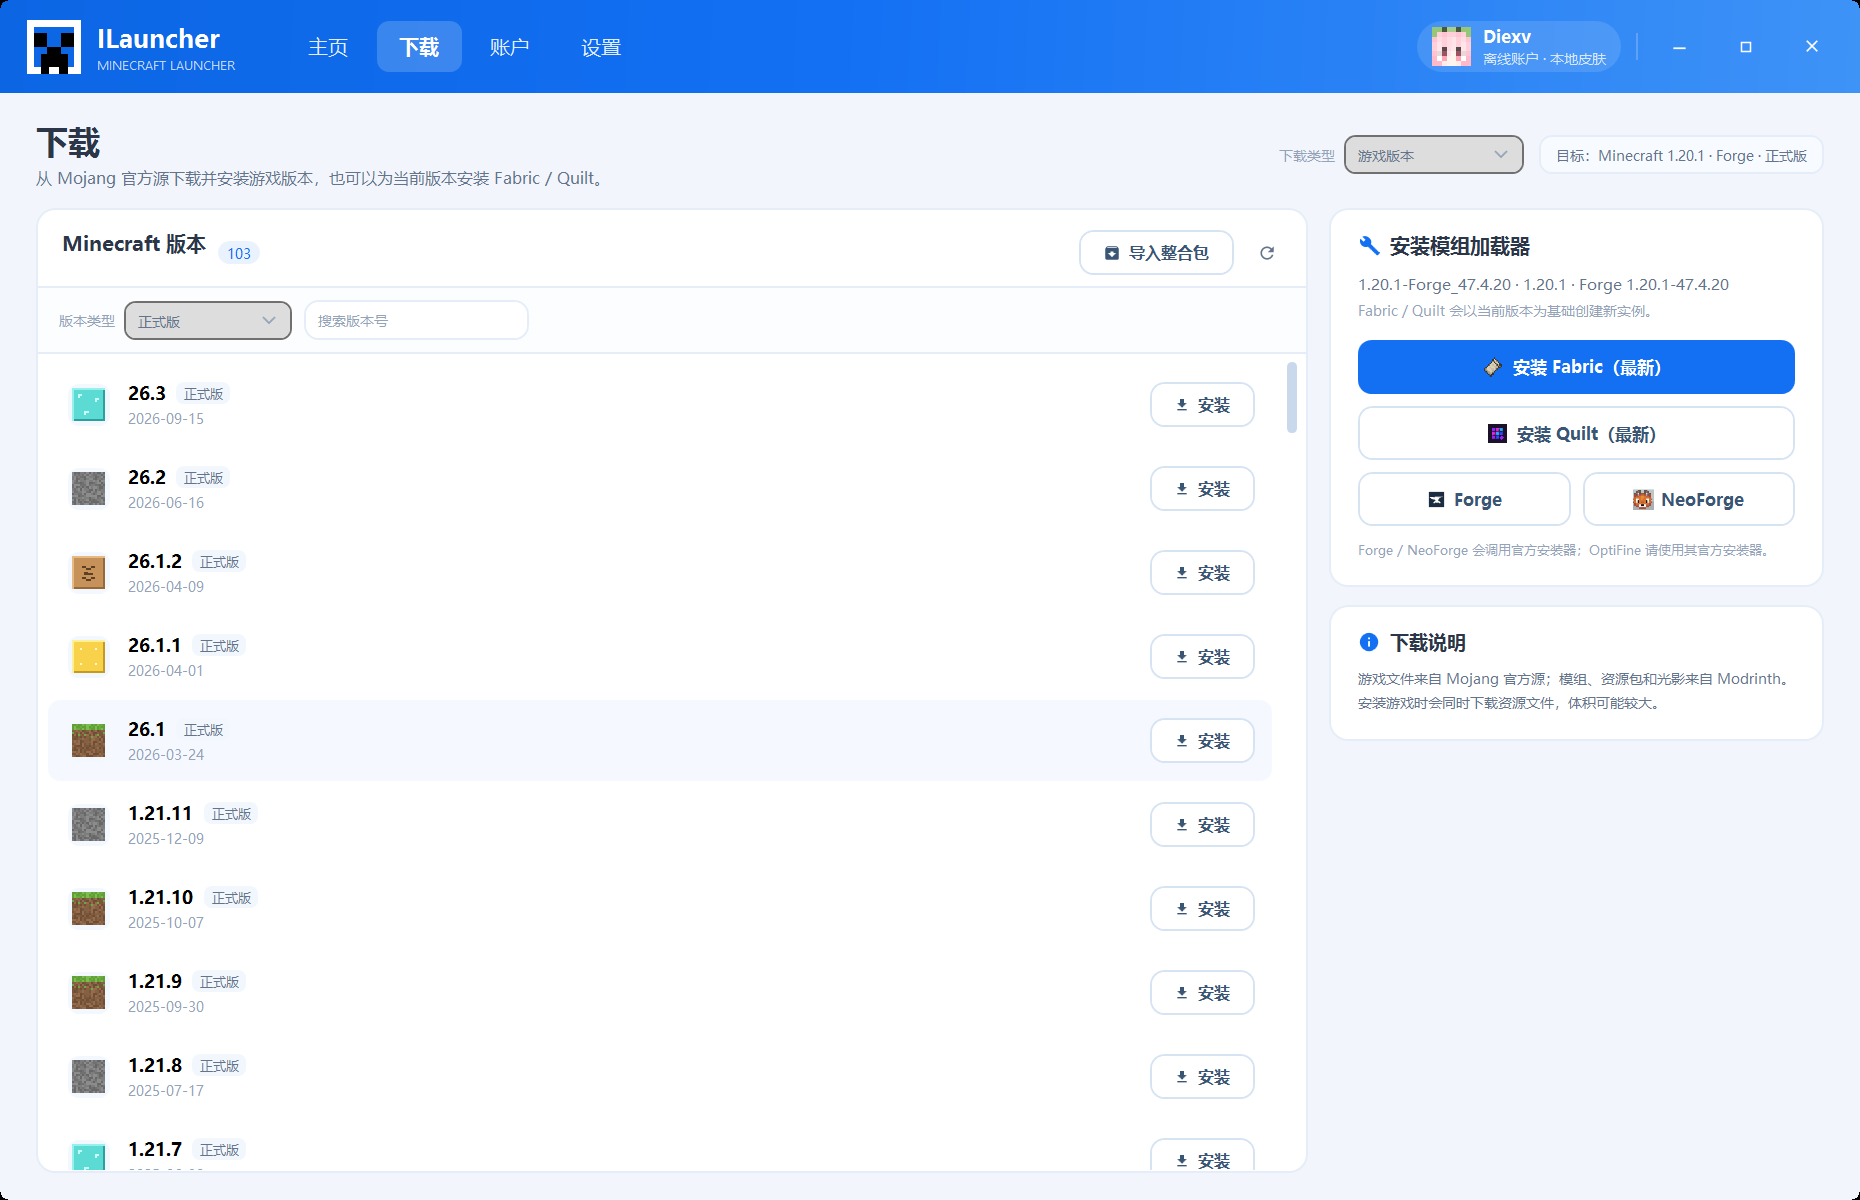
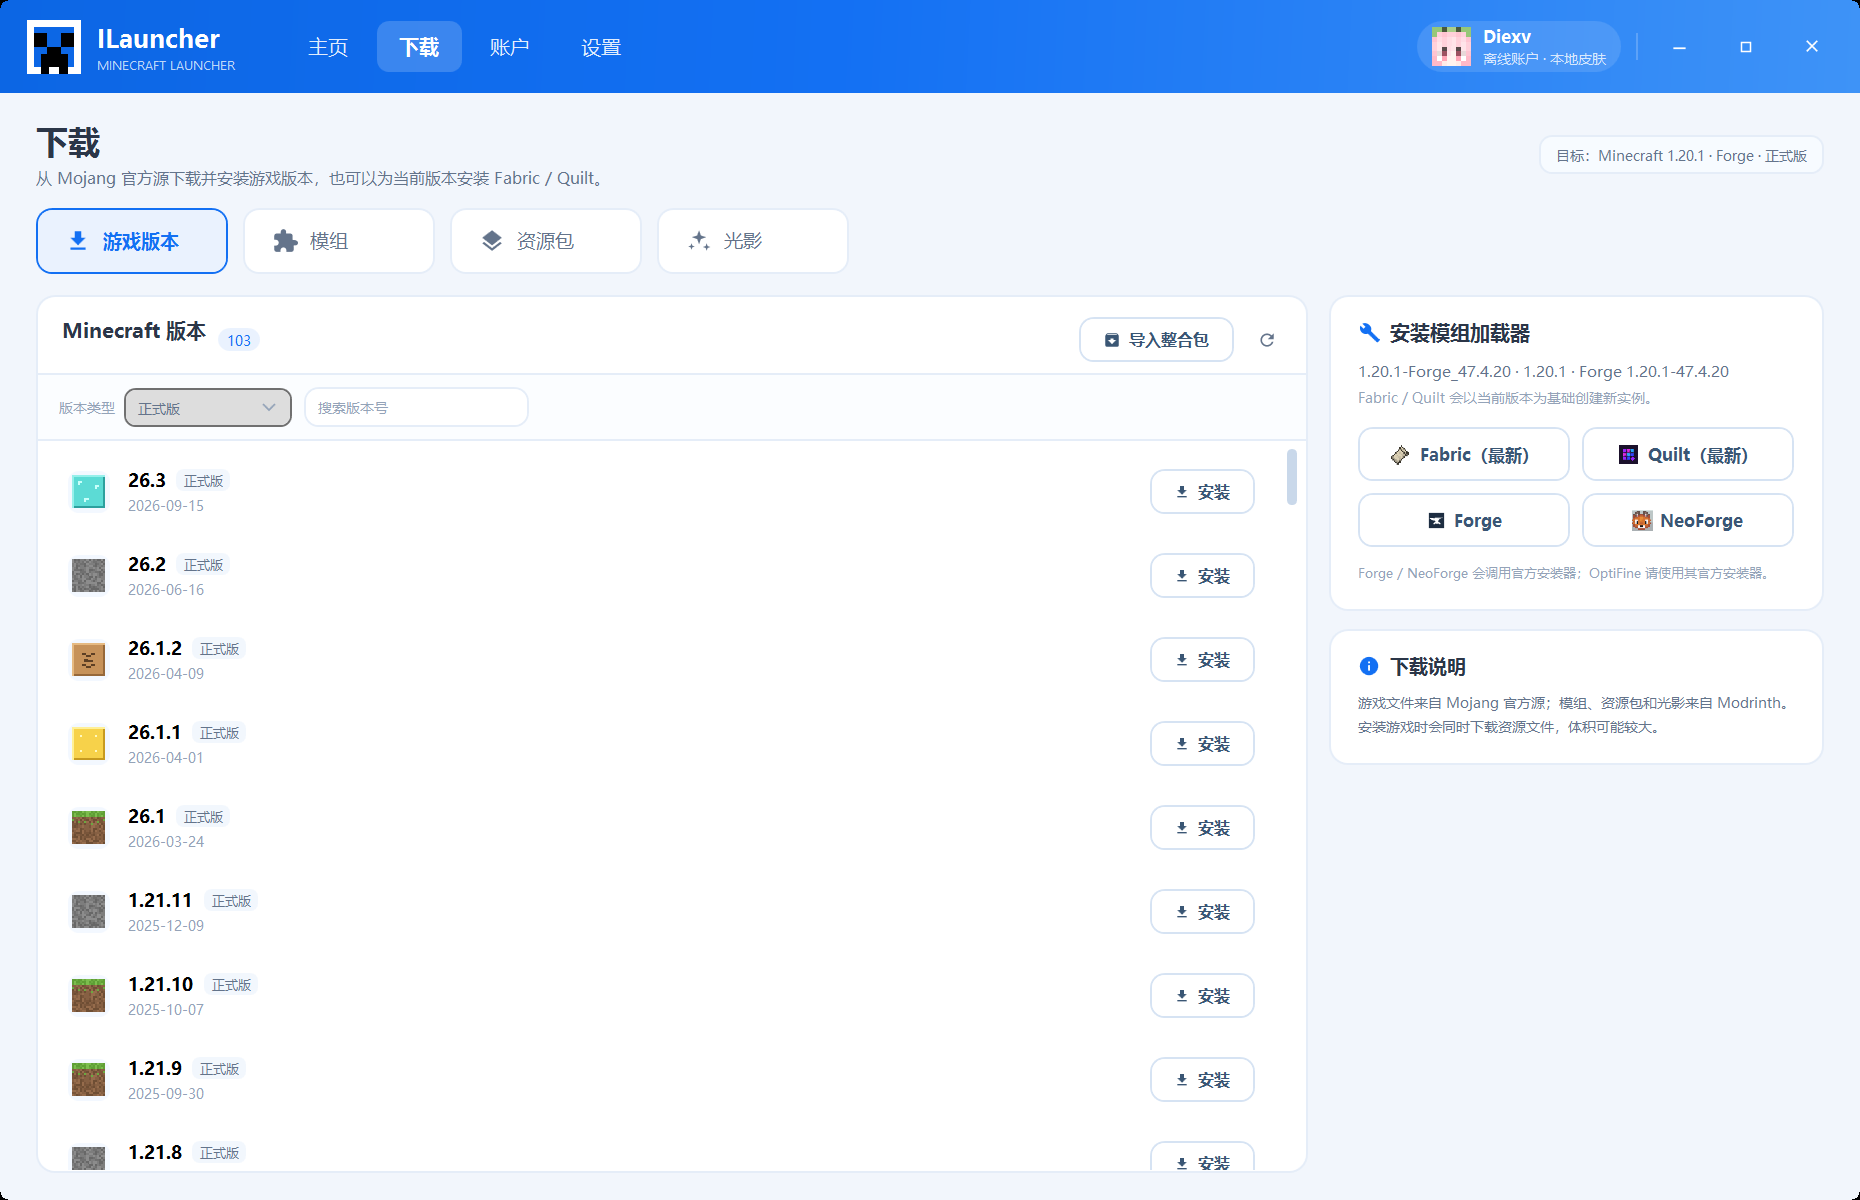
Polish download buttons and remove repeated source labels

diff --git a/src/ILauncher/Views/DownloadView.xaml b/src/ILauncher/Views/DownloadView.xaml
@@ -5,9 +5,11 @@
 
     <UserControl.Resources>
         <Style x:Key="DownloadTabButton" TargetType="Button">
-            <Setter Property="Height" Value="38" />
-            <Setter Property="Padding" Value="15,0" />
-            <Setter Property="Margin" Value="0,0,8,0" />
+            <Setter Property="Height" Value="44" />
+            <Setter Property="MinWidth" Value="128" />
+            <Setter Property="Padding" Value="18,0" />
+            <Setter Property="Margin" Value="0,0,10,0" />
+            <Setter Property="FontSize" Value="12.5" />
             <Setter Property="Background" Value="#FFFFFFFF" />
             <Setter Property="BorderBrush" Value="{StaticResource BrushBorder}" />
             <Setter Property="Foreground" Value="{StaticResource BrushTextSecondary}" />
@@ -63,6 +65,7 @@
     <Grid Margin="24,18,24,18">
         <Grid.RowDefinitions>
             <RowDefinition Height="Auto" />
+            <RowDefinition Height="Auto" />
             <RowDefinition Height="*" />
         </Grid.RowDefinitions>
 
@@ -74,12 +77,6 @@
                            Margin="0,4,0,0" />
             </StackPanel>
             <StackPanel Orientation="Horizontal" HorizontalAlignment="Right" VerticalAlignment="Center">
-                <TextBlock Text="下载类型" FontSize="9.5" Foreground="{StaticResource BrushTextMuted}"
-                           VerticalAlignment="Center" Margin="0,0,6,0" />
-                <ComboBox Style="{StaticResource FilterCombo}" Width="120" Margin="0,0,10,0"
-                          ItemsSource="{Binding DownloadTypeOptions}"
-                          SelectedItem="{Binding SelectedDownloadType, Mode=TwoWay}"
-                          AutomationProperties.Name="下载类型" />
                 <Border Background="#FFF7FBFF" BorderBrush="{StaticResource BrushBorder}" BorderThickness="1"
                         CornerRadius="8" Padding="10,5" VerticalAlignment="Center">
                     <TextBlock Text="{Binding FilterSummary}" FontSize="9.5" Foreground="{StaticResource BrushTextSecondary}" />
@@ -87,8 +84,43 @@
             </StackPanel>
         </Grid>
 
+        <StackPanel Grid.Row="1" Orientation="Horizontal" Margin="0,0,0,14">
+            <Button Style="{StaticResource DownloadTabButton}" Tag="{Binding IsGameTab}"
+                    Command="{Binding SetTabCommand}" CommandParameter="Game" AutomationProperties.Name="游戏版本">
+                <StackPanel Orientation="Horizontal">
+                    <controls:Icon Data="{StaticResource IconDownload}" Width="17" Height="17"
+                                   Fill="{Binding Foreground, RelativeSource={RelativeSource AncestorType=Button}}" />
+                    <TextBlock Text="游戏版本" Margin="8,0,0,0" FontSize="12.5" />
+                </StackPanel>
+            </Button>
+            <Button Style="{StaticResource DownloadTabButton}" Tag="{Binding IsModsTab}"
+                    Command="{Binding SetTabCommand}" CommandParameter="Mods" AutomationProperties.Name="模组">
+                <StackPanel Orientation="Horizontal">
+                    <controls:Icon Data="{StaticResource IconPuzzle}" Width="17" Height="17"
+                                   Fill="{Binding Foreground, RelativeSource={RelativeSource AncestorType=Button}}" />
+                    <TextBlock Text="模组" Margin="8,0,0,0" FontSize="12.5" />
+                </StackPanel>
+            </Button>
+            <Button Style="{StaticResource DownloadTabButton}" Tag="{Binding IsResourcePacksTab}"
+                    Command="{Binding SetTabCommand}" CommandParameter="ResourcePacks" AutomationProperties.Name="资源包">
+                <StackPanel Orientation="Horizontal">
+                    <controls:Icon Data="{StaticResource IconLayers}" Width="17" Height="17"
+                                   Fill="{Binding Foreground, RelativeSource={RelativeSource AncestorType=Button}}" />
+                    <TextBlock Text="资源包" Margin="8,0,0,0" FontSize="12.5" />
+                </StackPanel>
+            </Button>
+            <Button Style="{StaticResource DownloadTabButton}" Tag="{Binding IsShadersTab}"
+                    Command="{Binding SetTabCommand}" CommandParameter="Shaders" AutomationProperties.Name="光影">
+                <StackPanel Orientation="Horizontal">
+                    <controls:Icon Data="{StaticResource IconSparkles}" Width="17" Height="17"
+                                   Fill="{Binding Foreground, RelativeSource={RelativeSource AncestorType=Button}}" />
+                    <TextBlock Text="光影" Margin="8,0,0,0" FontSize="12.5" />
+                </StackPanel>
+            </Button>
+        </StackPanel>
+
         <!-- ═══════════ Game tab ═══════════ -->
-        <Grid Grid.Row="1" Visibility="{Binding IsGameTab, Converter={StaticResource BoolToVisibility}}">
+        <Grid Grid.Row="2" Visibility="{Binding IsGameTab, Converter={StaticResource BoolToVisibility}}">
             <Grid.ColumnDefinitions>
                 <ColumnDefinition Width="*" />
                 <ColumnDefinition Width="14" />
@@ -205,39 +237,38 @@
                         </StackPanel>
                         <TextBlock Text="{Binding CurrentInstanceText}" FontSize="10" Foreground="{StaticResource BrushTextSecondary}"
                                    TextTrimming="CharacterEllipsis" />
-                        <TextBlock Text="Fabric / Quilt 会以当前版本为基础创建新实例。" FontSize="9" Foreground="{StaticResource BrushTextMuted}"
+                        <TextBlock Text="Fabric / Quilt 会创建新实例；Forge / NeoForge 调用官方安装器。" FontSize="9" Foreground="{StaticResource BrushTextMuted}"
                                    TextWrapping="Wrap" Margin="0,4,0,12" LineHeight="15" />
-                        <Button Style="{StaticResource PrimaryButton}" Height="36" Command="{Binding InstallFabricCommand}" AutomationProperties.Name="安装 Fabric">
-                            <StackPanel Orientation="Horizontal">
-                                <Image Source="/Assets/Loaders/fabric.png" Width="15" Height="15" />
-                                <TextBlock Text="安装 Fabric（最新）" Margin="6,0,0,0" FontSize="11.5" />
-                            </StackPanel>
-                        </Button>
-                        <Button Style="{StaticResource SecondaryButton}" Height="36" Margin="0,8,0,0" Command="{Binding InstallQuiltCommand}" AutomationProperties.Name="安装 Quilt">
-                            <StackPanel Orientation="Horizontal">
-                                <Image Source="/Assets/Loaders/quilt.png" Width="14" Height="14" />
-                                <TextBlock Text="安装 Quilt（最新）" Margin="6,0,0,0" FontSize="11.5" />
-                            </StackPanel>
-                        </Button>
-                        <Grid Margin="0,8,0,0">
-                            <Grid.ColumnDefinitions>
-                                <ColumnDefinition Width="1*" />
-                                <ColumnDefinition Width="8" />
-                                <ColumnDefinition Width="1*" />
-                            </Grid.ColumnDefinitions>
-                            <Button Style="{StaticResource SecondaryButton}" Height="36" Command="{Binding InstallForgeCommand}" AutomationProperties.Name="安装 Forge">
+                        <UniformGrid Columns="2" Rows="2" Margin="0,0,0,2">
+                            <Button Style="{StaticResource SecondaryButton}" Height="36" Margin="0,0,4,4"
+                                    Command="{Binding InstallFabricCommand}" AutomationProperties.Name="安装 Fabric">
+                                <StackPanel Orientation="Horizontal">
+                                    <Image Source="/Assets/Loaders/fabric.png" Width="15" Height="15" />
+                                    <TextBlock Text="Fabric（最新）" Margin="6,0,0,0" FontSize="11.5" />
+                                </StackPanel>
+                            </Button>
+                            <Button Style="{StaticResource SecondaryButton}" Height="36" Margin="4,0,0,4"
+                                    Command="{Binding InstallQuiltCommand}" AutomationProperties.Name="安装 Quilt">
+                                <StackPanel Orientation="Horizontal">
+                                    <Image Source="/Assets/Loaders/quilt.png" Width="14" Height="14" />
+                                    <TextBlock Text="Quilt（最新）" Margin="6,0,0,0" FontSize="11.5" />
+                                </StackPanel>
+                            </Button>
+                            <Button Style="{StaticResource SecondaryButton}" Height="36" Margin="0,4,4,0"
+                                    Command="{Binding InstallForgeCommand}" AutomationProperties.Name="安装 Forge">
                                 <StackPanel Orientation="Horizontal">
                                     <Image Source="/Assets/Loaders/forge.png" Width="14" Height="14" />
                                     <TextBlock Text="Forge" Margin="5,0,0,0" FontSize="11.5" />
                                 </StackPanel>
                             </Button>
-                            <Button Grid.Column="2" Style="{StaticResource SecondaryButton}" Height="36" Command="{Binding InstallNeoForgeCommand}" AutomationProperties.Name="安装 NeoForge">
+                            <Button Style="{StaticResource SecondaryButton}" Height="36" Margin="4,4,0,0"
+                                    Command="{Binding InstallNeoForgeCommand}" AutomationProperties.Name="安装 NeoForge">
                                 <StackPanel Orientation="Horizontal">
                                     <Image Source="/Assets/Loaders/neoforge.png" Width="14" Height="14" />
                                     <TextBlock Text="NeoForge" Margin="5,0,0,0" FontSize="11.5" />
                                 </StackPanel>
                             </Button>
-                        </Grid>
+                        </UniformGrid>
                         <TextBlock Text="Forge / NeoForge 会调用官方安装器；OptiFine 请使用其官方安装器。"
                                    FontSize="8.8" Foreground="{StaticResource BrushTextMuted}" TextWrapping="Wrap" Margin="0,9,0,0" LineHeight="15" />
                     </StackPanel>
@@ -257,7 +288,7 @@
         </Grid>
 
         <!-- ═══════════ Content search tab ═══════════ -->
-        <Grid Grid.Row="1" Visibility="{Binding IsContentTab, Converter={StaticResource BoolToVisibility}}">
+        <Grid Grid.Row="2" Visibility="{Binding IsContentTab, Converter={StaticResource BoolToVisibility}}">
             <Grid.RowDefinitions>
                 <RowDefinition Height="Auto" />
                 <RowDefinition Height="Auto" />
@@ -396,15 +427,15 @@
 
                         <StackPanel HorizontalAlignment="Center" VerticalAlignment="Center"
                                     Visibility="{Binding IsSearching, Converter={StaticResource BoolToVisibility}}">
-                            <TextBlock Text="正在搜索 Modrinth…" FontSize="11" Foreground="{StaticResource BrushTextSecondary}" />
+                            <TextBlock Text="正在搜索…" FontSize="11" Foreground="{StaticResource BrushTextSecondary}" />
                         </StackPanel>
                         <StackPanel HorizontalAlignment="Center" VerticalAlignment="Center"
-                                    Visibility="{Binding HasSearchResults, Converter={StaticResource InverseBoolToVisibility}}">
+                                    Visibility="{Binding ShowSearchEmpty, Converter={StaticResource BoolToVisibility}}">
                             <Border Width="52" Height="52" CornerRadius="15" Background="#FFF2F8FF" HorizontalAlignment="Center">
                                 <controls:Icon Data="{StaticResource IconSearch}" Fill="#FFA9C6E8" Width="24" Height="24" />
                             </Border>
-                            <TextBlock Text="搜索 Modrinth" FontSize="13" FontWeight="SemiBold" HorizontalAlignment="Center" Margin="0,10,0,0" />
-                            <TextBlock Text="输入关键词后点击搜索；结果会按当前版本的 Minecraft 与加载器过滤。"
+                            <TextBlock Text="搜索在线资源" FontSize="13" FontWeight="SemiBold" HorizontalAlignment="Center" Margin="0,10,0,0" />
+                            <TextBlock Text="输入关键词后点击搜索；结果会按筛选条件过滤。"
                                        FontSize="9.5" Foreground="{StaticResource BrushTextSecondary}" TextAlignment="Center"
                                        TextWrapping="Wrap" MaxWidth="380" Margin="0,5,0,0" />
                         </StackPanel>

diff --git a/src/ILauncher/ViewModels/DownloadViewModel.cs b/src/ILauncher/ViewModels/DownloadViewModel.cs
@@ -262,9 +262,9 @@ public sealed class DownloadViewModel : ObservableObject
 
     public string TabDescription => CurrentTab switch
     {
-        DownloadTab.Mods => "从 Modrinth 搜索并安装模组到当前版本。",
-        DownloadTab.ResourcePacks => "从 Modrinth 搜索资源包并安装到当前版本。",
-        DownloadTab.Shaders => "从 Modrinth 搜索光影并安装到当前版本。",
+        DownloadTab.Mods => "搜索并安装模组到当前版本。",
+        DownloadTab.ResourcePacks => "搜索资源包并安装到当前版本。",
+        DownloadTab.Shaders => "搜索光影并安装到当前版本。",
         _ => "从 Mojang 官方源下载并安装游戏版本，也可以为当前版本安装 Fabric / Quilt。"
     };
 
@@ -304,7 +304,13 @@ public sealed class DownloadViewModel : ObservableObject
     public bool IsSearching
     {
         get => _isSearching;
-        private set => SetProperty(ref _isSearching, value);
+        private set
+        {
+            if (SetProperty(ref _isSearching, value))
+            {
+                OnPropertyChanged(nameof(ShowSearchEmpty));
+            }
+        }
     }
 
     public string SearchQuery
@@ -481,6 +487,7 @@ public sealed class DownloadViewModel : ObservableObject
     }
 
     public bool HasSearchResults => SearchResults.Count > 0;
+    public bool ShowSearchEmpty => !IsSearching && !HasSearchResults;
 
     public void RefreshContext()
     {
@@ -489,6 +496,7 @@ public sealed class DownloadViewModel : ObservableObject
         OnPropertyChanged(nameof(CurrentInstanceText));
         OnPropertyChanged(nameof(FilterSummary));
         OnPropertyChanged(nameof(HasSearchResults));
+        OnPropertyChanged(nameof(ShowSearchEmpty));
         InstallFabricCommand.RaiseCanExecuteChanged();
         InstallQuiltCommand.RaiseCanExecuteChanged();
         InstallForgeCommand.RaiseCanExecuteChanged();
@@ -783,7 +791,7 @@ public sealed class DownloadViewModel : ObservableObject
         }
 
         IsSearching = true;
-        SearchStatus = "正在搜索 Modrinth…";
+        SearchStatus = "正在搜索…";
         var searchVersion = ++_searchVersion;
         try
         {
@@ -801,6 +809,7 @@ public sealed class DownloadViewModel : ObservableObject
             }
 
             OnPropertyChanged(nameof(HasSearchResults));
+            OnPropertyChanged(nameof(ShowSearchEmpty));
             OnPropertyChanged(nameof(SearchPage));
             OnPropertyChanged(nameof(SearchTotalPages));
             OnPropertyChanged(nameof(SearchPageText));
@@ -808,7 +817,7 @@ public sealed class DownloadViewModel : ObservableObject
                 ? "没有找到匹配的项目，试试换一个关键词。"
                 : CurrentTab == DownloadTab.Mods
                     ? $"找到 {result.TotalHits} 个项目 · 正在匹配 MC百科…"
-                    : $"找到 {result.TotalHits} 个项目 · 来源 Modrinth";
+                    : $"找到 {result.TotalHits} 个项目";
             if (CurrentTab == DownloadTab.Mods && result.Hits.Count > 0)
             {
                 _ = EnrichMcmodAsync(result.Hits, searchVersion);
@@ -861,7 +870,7 @@ public sealed class DownloadViewModel : ObservableObject
 
         if (searchVersion == _searchVersion)
         {
-            SearchStatus = $"找到 {_searchTotal} 个项目 · 来源 Modrinth";
+            SearchStatus = $"找到 {_searchTotal} 个项目";
         }
     }
 
@@ -958,4 +967,6 @@ public sealed class DownloadViewModel : ObservableObject
         _ => null
     };
 }
+
+
 

diff --git a/README.md b/README.md
@@ -94,7 +94,7 @@ $env:MS_CLIENT_ID = "你的 Azure Application (client) ID"
 ### 顶部导航
 
 - 顶部固定显示 **主页 / 下载 / 账户 / 设置**；切换根界面不再依赖返回按钮，也不会在子页隐藏导航。
-- 下载页不再使用「游戏版本 / 模组 / 资源包 / 光影」二级标签，改为页面右上角的**下载类型**下拉。
+- 下载页使用四个大按钮切换 **游戏版本 / 模组 / 资源包 / 光影**，按钮位于页面标题下方，不再使用小标签或右上角下拉。
 - 版本页取消左侧导航栏；**概览 / 设置 / 模组管理 / 资源包 / 光影 / 存档 / 截图 / 服务器** 统一放在顶部“版本页面”下拉中切换，测试游戏入口也在顶栏。
 
 ### 下载中心
@@ -254,7 +254,7 @@ docs/screenshots/            README 截图
 - Forge 1.20.1（124 模组、2 启用）：真实启动，日志面板捕获 7,000+ 行，窗口检测、停止进程树。
 - 原版 1.20.1：启动、停止、日志面板。
 - Fabric 安装：通过 Meta API 创建 `fabric-loader-0.20.1-1.20.1`（测试后清理）。
-- Modrinth：搜索、下载类型下拉、加载器/版本范围/类型筛选、翻页、MC百科中文名、安装资源包到版本目录（测试后清理）。
+- Modrinth：搜索、下载类型大按钮、加载器/版本范围/类型筛选、翻页、MC百科中文名、安装资源包到版本目录（测试后清理）。
 - 原版 1.20.1 安装器：临时目录下载版本 JSON、客户端 jar 和 65 个库文件（不下载资源对象）。
 - Forge 官方安装器：在全新临时目录完整安装 `1.20.1-forge-47.4.21`，自动生成 `launcher_profiles.json` 并完成打补丁。
 - 模组更新：放入旧版 Cloth Config 后检查到 11.1.136，点击更新后旧文件被禁用、新文件启用（测试后清理）。
@@ -278,6 +278,7 @@ docs/screenshots/            README 截图
 - 模组安装不会自动解析并安装前置依赖；只安装主文件。
 - Forge/NeoForge 走官方安装器，不保证所有版本都能在无界面模式下成功。
 - 启动器自身更新、主题/语言切换等非 Minecraft 功能未实现。
+
 
 
 
